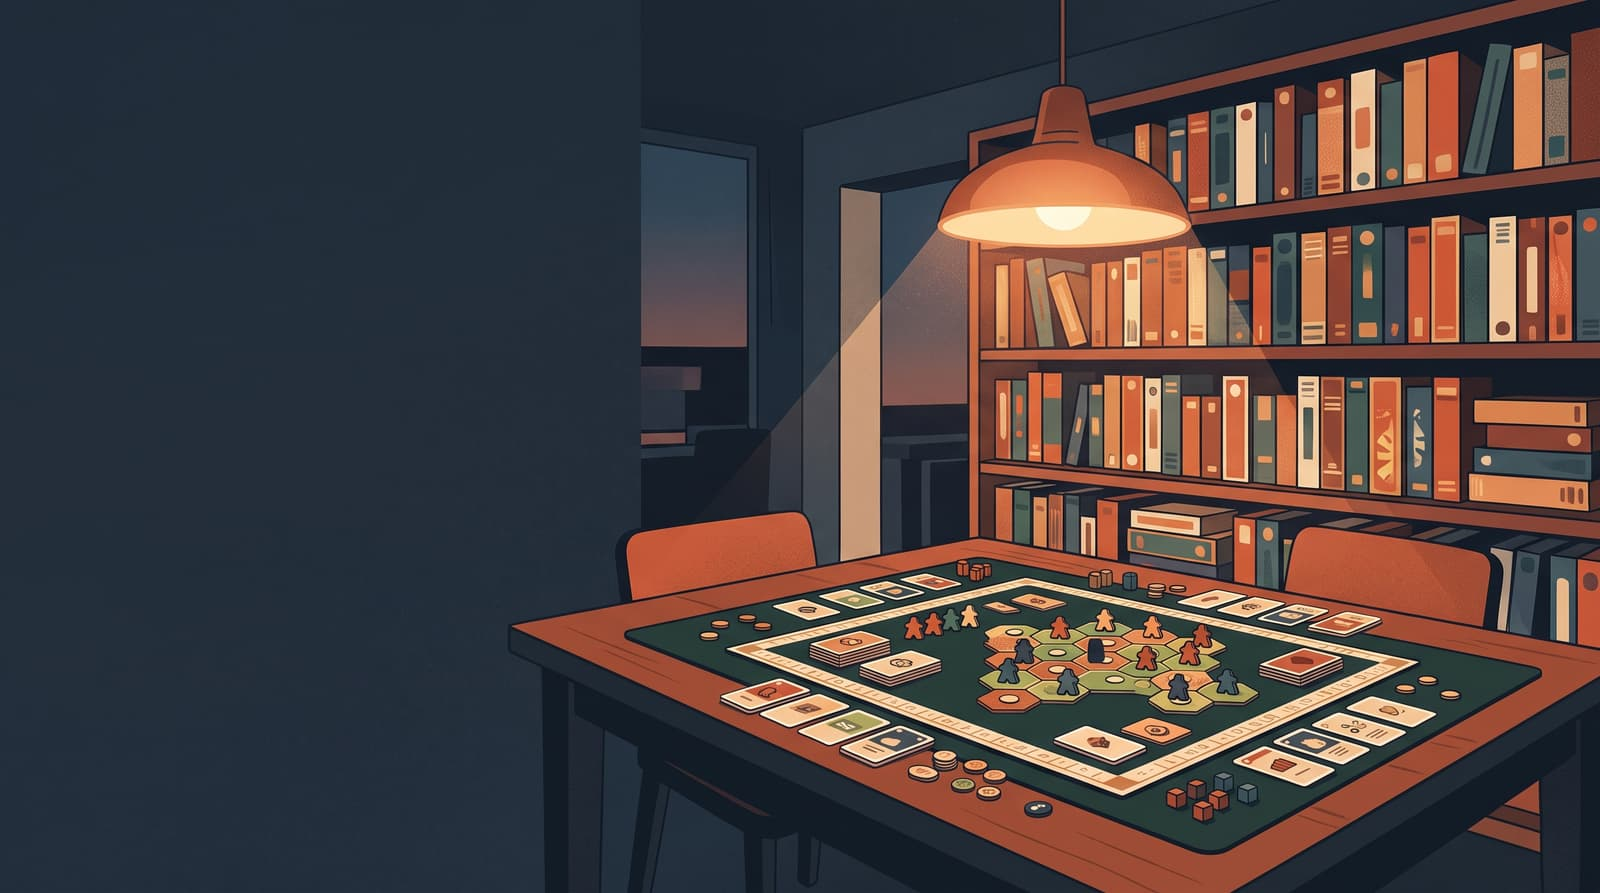
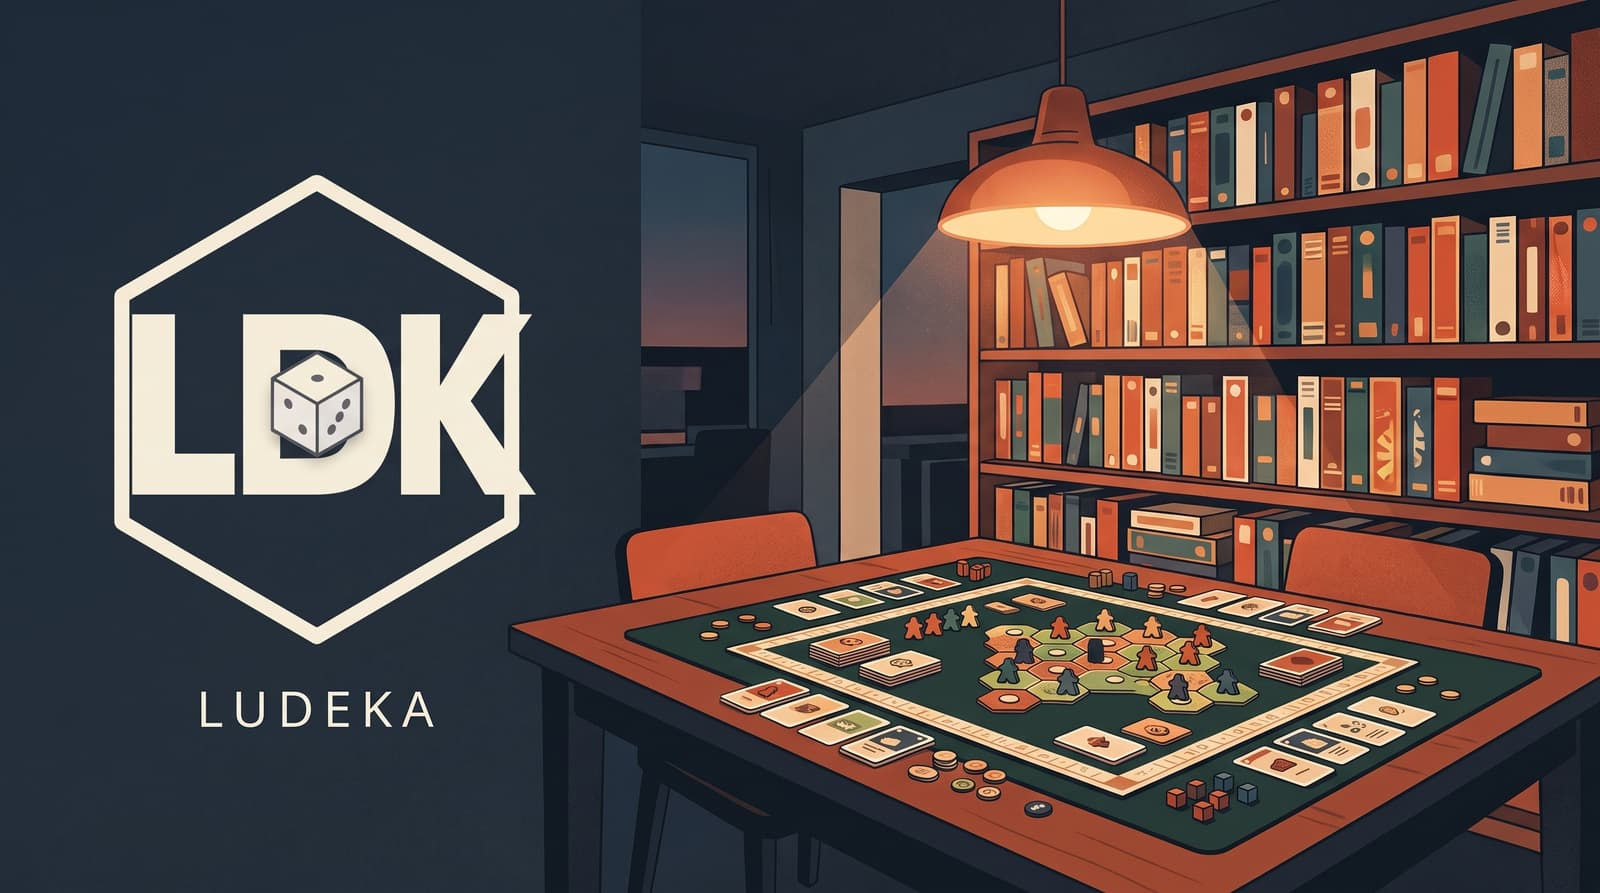
feat: ilustracion del hero con logotipo Ludeka integrado

diff --git a/src/Ludeka.Web/Components/Home/HeroBackgroundVariant.cs b/src/Ludeka.Web/Components/Home/HeroBackgroundVariant.cs
@@ -54,7 +54,7 @@ public static class HeroBackgroundAssets
         HeroBackgroundVariant.FotoEurogame => "Mesa de juego con un eurogame en marcha sobre el tapete y una estantería lúdica al fondo",
         HeroBackgroundVariant.FotoMesaAmigos => "Grupo de amigos riendo alrededor de una mesa de madera con juegos de mesa",
         HeroBackgroundVariant.FotoPrimerPlano => "Primer plano de manos colocando piezas sobre el tablero de un juego de mesa",
-        HeroBackgroundVariant.Ilustracion => "Ilustración editorial de una mesa de juego con estantería al fondo",
+        HeroBackgroundVariant.Ilustracion => "Ilustración editorial de una sala de juegos con estantería, mesa con eurogame y el logotipo de Ludeka",
         _ => string.Empty,
     };
 

diff --git a/tests/Ludeka.UnitTests/Infrastructure/WebMarkupContractTests.cs b/tests/Ludeka.UnitTests/Infrastructure/WebMarkupContractTests.cs
@@ -731,7 +731,7 @@ public class WebMarkupContractTests
             ("FotoEurogame", "Mesa de juego con un eurogame en marcha sobre el tapete y una estantería lúdica al fondo"),
             ("FotoMesaAmigos", "Grupo de amigos riendo alrededor de una mesa de madera con juegos de mesa"),
             ("FotoPrimerPlano", "Primer plano de manos colocando piezas sobre el tablero de un juego de mesa"),
-            ("Ilustracion", "Ilustración editorial de una mesa de juego con estantería al fondo"),
+            ("Ilustracion", "Ilustración editorial de una sala de juegos con estantería, mesa con eurogame y el logotipo de Ludeka"),
         };
 
         foreach (var (variantName, expectedAlt) in expectedByVariant)
